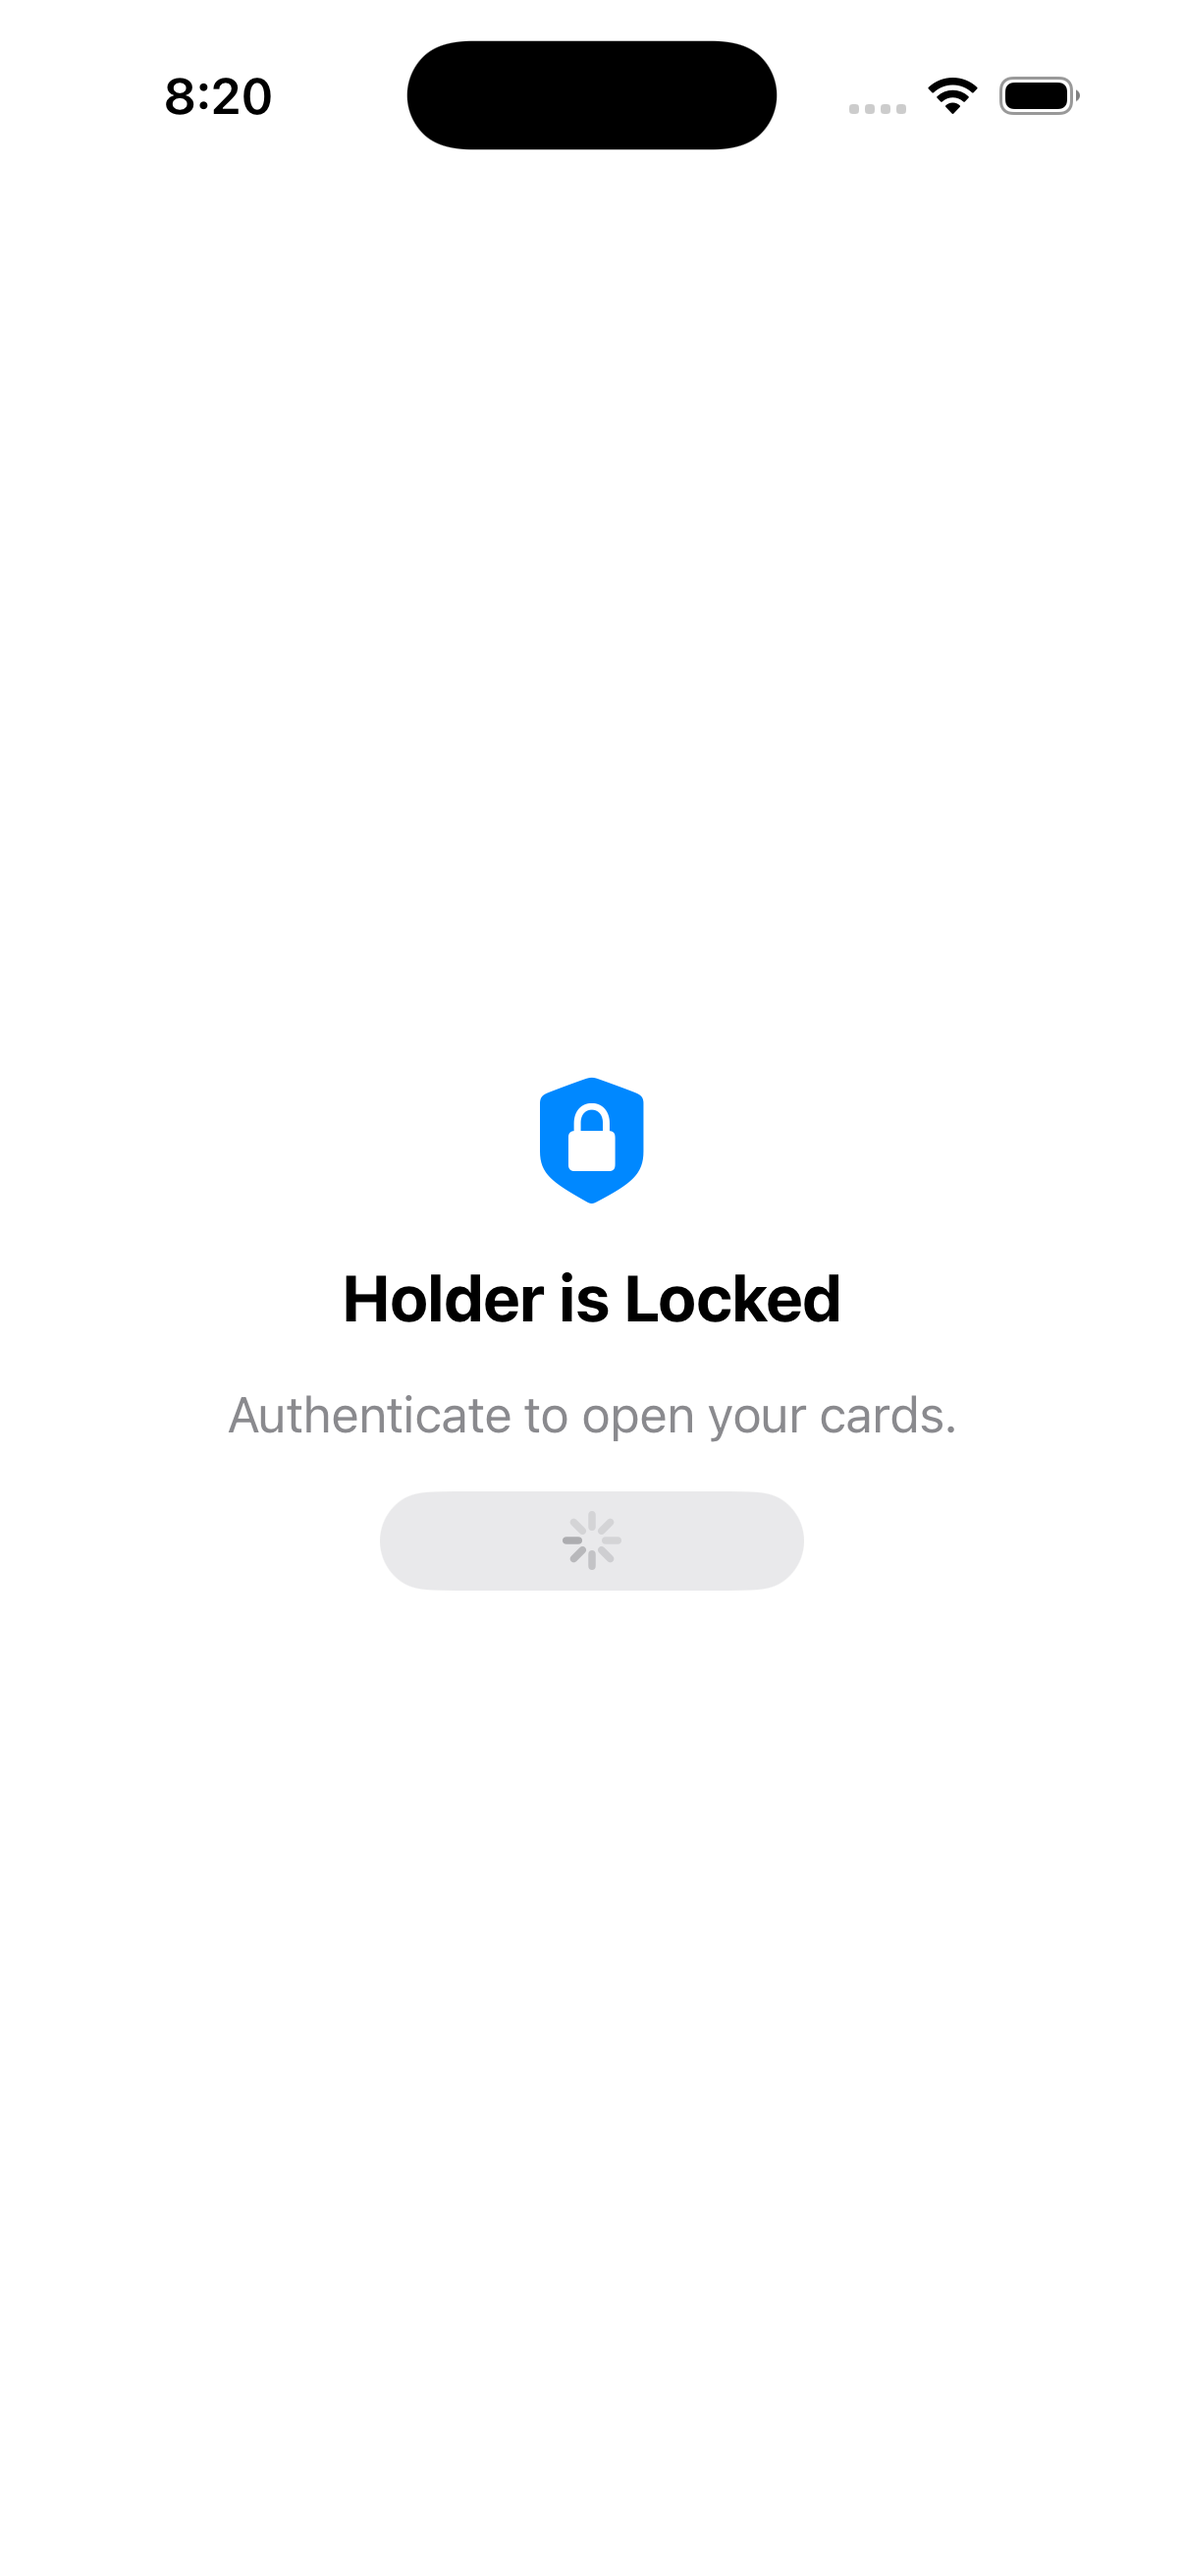
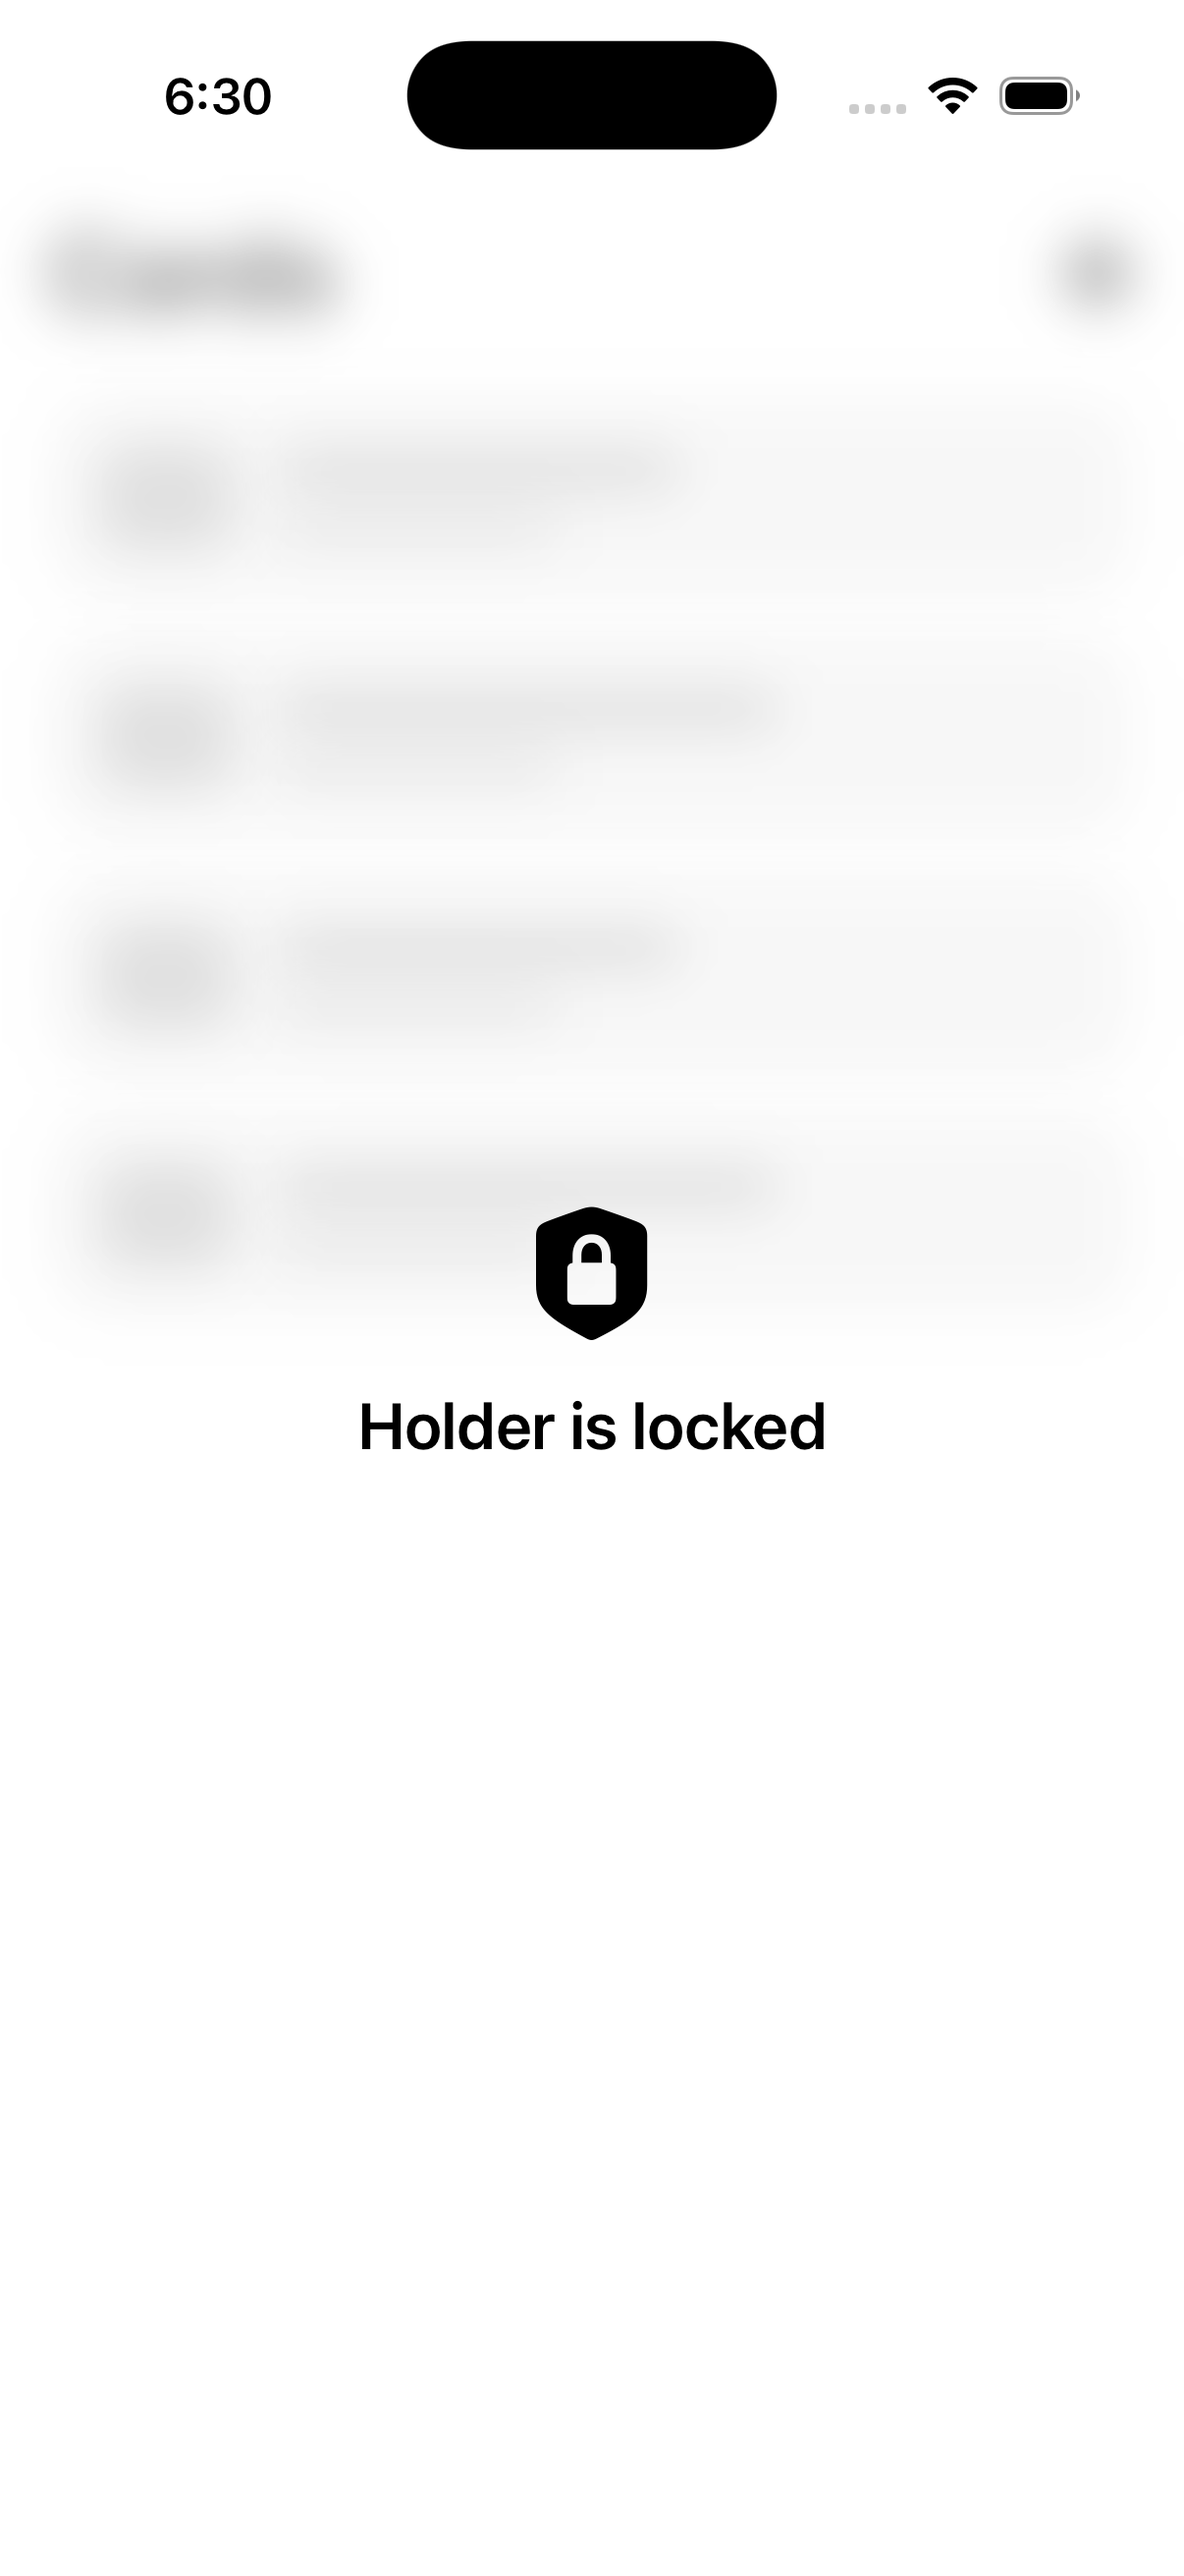
fix: simplify vault lock and preserve card selection

diff --git a/cards/Platform/AuthenticationSession.swift b/cards/Platform/AuthenticationSession.swift
@@ -249,12 +249,11 @@ struct VaultProtectedView<Content: View>: View {
 
     var body: some View {
         ZStack {
-            content
-                .opacity(isContentVisible ? 1 : 0)
-                .allowsHitTesting(isContentVisible && !session.isPrivacyCurtainVisible)
-                .accessibilityHidden(!isContentVisible || session.isPrivacyCurtainVisible)
-
-            if !isContentVisible {
+            if isContentVisible {
+                content
+                    .allowsHitTesting(!session.isPrivacyCurtainVisible)
+                    .accessibilityHidden(session.isPrivacyCurtainVisible)
+            } else {
                 lockView
             }
 
@@ -295,38 +294,91 @@ struct VaultProtectedView<Content: View>: View {
     }
 
     private var lockView: some View {
-        VStack(spacing: 16) {
-            Image(systemName: "lock.shield.fill")
-                .font(.system(size: 44))
-                .foregroundStyle(.tint)
-            Text("Holder is Locked")
-                .font(.title2.bold())
-            Text("Authenticate to open your cards.")
-                .foregroundStyle(.secondary)
+        ZStack {
+            platformBackground
+                .ignoresSafeArea()
+
+            blurredHomeBackdrop
+
+            platformBackground
+                .opacity(0.3)
+                .ignoresSafeArea()
 
             Button {
                 session.authenticateToUnlockVault()
             } label: {
-                if session.isAuthenticating {
-                    ProgressView()
-                        .frame(minWidth: 120)
-                } else {
-                    Label("Unlock Holder", systemImage: "lock.open.fill")
+                VStack(spacing: 12) {
+                    Image(systemName: "lock.shield.fill")
+                        .font(.system(size: 46, weight: .semibold))
+                        .foregroundStyle(.primary)
+
+                    Text("Holder is locked")
+                        .font(.title2.weight(.semibold))
+                        .foregroundStyle(.primary)
+                }
+                .padding(44)
+            }
+            .buttonStyle(.plain)
+            .disabled(session.isAuthenticating)
+            .accessibilityLabel(lockAccessibilityLabel)
+            .accessibilityHint("Tap to authenticate and open Holder")
+        }
+        .frame(maxWidth: .infinity, maxHeight: .infinity)
+    }
+
+    private var lockAccessibilityLabel: String {
+        if session.isAuthenticating {
+            return "Authenticating"
+        }
+        if session.authenticationMessage != nil {
+            return "Authentication failed. Holder is locked"
+        }
+        return "Holder is locked"
+    }
+
+    private var blurredHomeBackdrop: some View {
+        VStack(alignment: .leading, spacing: 20) {
+            HStack {
+                Text("Cards")
+                    .font(.largeTitle.bold())
+                Spacer()
+                Image(systemName: "gearshape.fill")
+                    .font(.title3)
+            }
+
+            VStack(spacing: 12) {
+                ForEach(0..<4, id: \.self) { index in
+                    HStack(spacing: 14) {
+                        RoundedRectangle(cornerRadius: 10, style: .continuous)
+                            .fill(Color.primary.opacity(0.2))
+                            .frame(width: 44, height: 34)
+
+                        VStack(alignment: .leading, spacing: 8) {
+                            Capsule()
+                                .fill(Color.primary.opacity(0.22))
+                                .frame(width: index.isMultiple(of: 2) ? 132 : 164, height: 12)
+                            Capsule()
+                                .fill(Color.primary.opacity(0.14))
+                                .frame(width: 92, height: 10)
+                        }
+
+                        Spacer(minLength: 0)
+                    }
+                    .padding(16)
+                    .background(
+                        Color.primary.opacity(0.06),
+                        in: RoundedRectangle(cornerRadius: 18, style: .continuous)
+                    )
                 }
             }
-            .buttonStyle(.borderedProminent)
-            .disabled(session.isAuthenticating)
-
-            if let message = session.authenticationMessage {
-                Text(message)
-                    .font(.caption)
-                    .foregroundStyle(.secondary)
-                    .multilineTextAlignment(.center)
-            }
         }
-        .padding(32)
-        .frame(maxWidth: .infinity, maxHeight: .infinity)
-        .background(platformBackground)
+        .padding(24)
+        .frame(maxWidth: 620, maxHeight: .infinity, alignment: .top)
+        .blur(radius: 9)
+        .opacity(0.72)
+        .scaleEffect(1.04)
+        .allowsHitTesting(false)
+        .accessibilityHidden(true)
     }
 
     private var privacyCurtain: some View {

diff --git a/cards/CreditCard.swift b/cards/CreditCard.swift
@@ -137,13 +137,15 @@ struct CreditCard: App {
     #endif
 
     /// Shared card data store for menu bar access on macOS
-    @State private var cardDataStore = CardDataStore()
+    @State private var cardDataStore: CardDataStore
     @State private var sdk: SinghDevKit
+    @StateObject private var homeViewModel: HomeViewModel
     @StateObject private var authenticationSession = AuthenticationSession()
     private let sdkConfiguration: SDKConfiguration
     private let privacyPolicyURL: URL?
 
     init() {
+        let cardDataStore = CardDataStore()
         let appSecrets = AppSecrets.load()
         let settings = SettingsViewModel()
         let sdkConfiguration = SDKConfiguration(
@@ -153,6 +155,10 @@ struct CreditCard: App {
             payments: appSecrets.paymentsConfiguration,
             settings: settings,
             onboarding: .default()
+        )
+        _cardDataStore = State(initialValue: cardDataStore)
+        _homeViewModel = StateObject(
+            wrappedValue: HomeViewModel(cardDataStore: cardDataStore)
         )
         self.sdkConfiguration = sdkConfiguration
         self.privacyPolicyURL = settings.privacyPolicyURL
@@ -178,7 +184,7 @@ struct CreditCard: App {
     @ViewBuilder
     private var rootContent: some View {
         VaultProtectedView(session: authenticationSession) {
-            HomeView(cardDataStore: cardDataStore)
+            HomeView(model: homeViewModel)
                 .task {
                     try? Tips.configure([
                         .displayFrequency(.immediate),

diff --git a/cards/Home/HomeView.swift b/cards/Home/HomeView.swift
@@ -10,14 +10,14 @@ import WhatsNewKit
 import SinghDevKit
 
 struct HomeView: View {
-	@ObservedObject var model: HomeViewModel
+	@ObservedObject private var model: HomeViewModel
 	@EnvironmentObject private var authenticationSession: AuthenticationSession
 	@Environment(\.analytics) private var analytics
 	@Environment(\.sdk) private var sdk
 	@State private var cardPendingDeletion: CardData?
 
-	init(cardDataStore: CardDataStore = CardDataStore()) {
-		self.model = HomeViewModel(cardDataStore: cardDataStore)
+	init(model: HomeViewModel) {
+		self.model = model
 	}
 
 	var body: some View {
